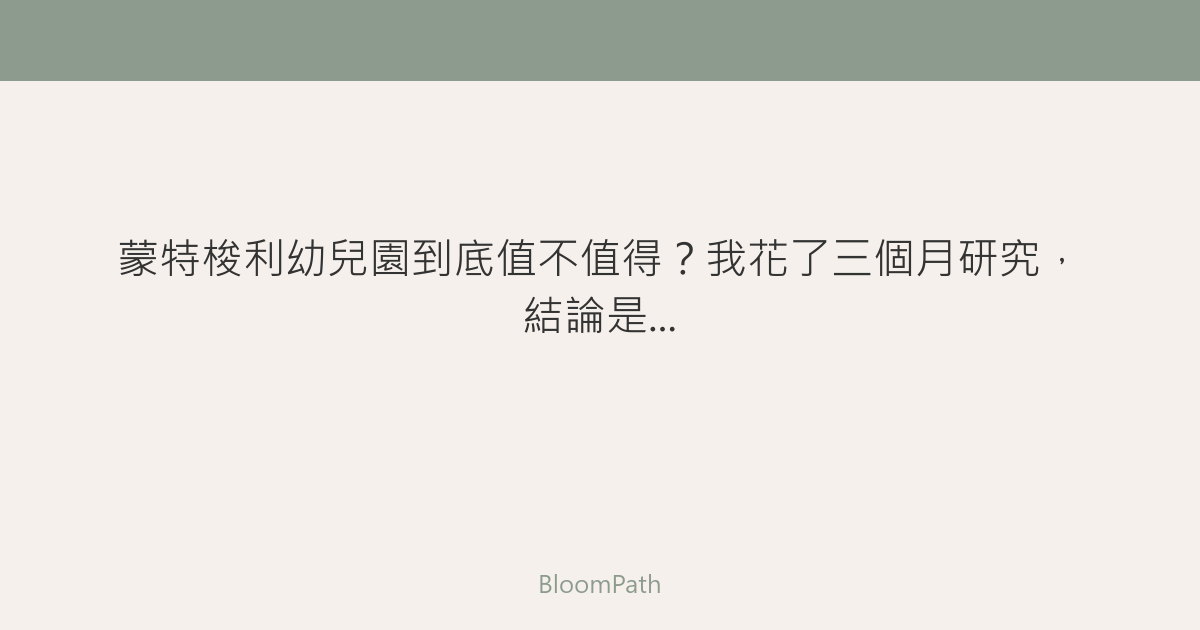
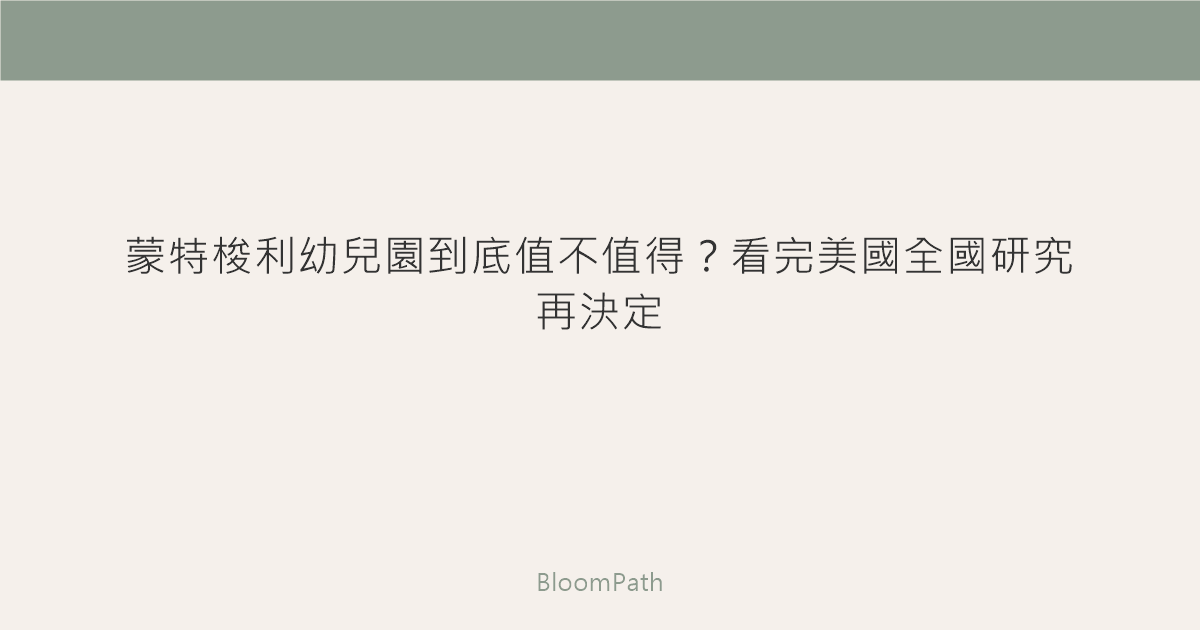
Drop the unverifiable "three months of research" claim from a title
The montessori-vs-traditional-preschool-zh title said the author spent
three months researching; the description called the PNAS trial the
world's largest. Retitle, correct the description, redraw the OG image
and rebuild the titles index.

Changed region(s): [[0.0925, 0.3619, 0.8942, 0.5429], [0.4317, 0.9048, 0.555, 0.9651]]

diff --git a/src/content/blog/montessori-vs-traditional-preschool-zh.md b/src/content/blog/montessori-vs-traditional-preschool-zh.md
@@ -1,6 +1,6 @@
 ---
-title: "蒙特梭利幼兒園到底值不值得？我花了三個月研究，結論是..."
-description: "2025 年全球最大規模蒙特梭利 RCT 研究揭密：近 600 個孩子的實驗數據，告訴台灣爸媽蒙特梭利幼兒園到底值不值得。"
+title: "蒙特梭利幼兒園到底值不值得？看完美國全國研究再決定"
+description: "2025 年美國首個全國性公立蒙特梭利幼兒園隨機對照研究：近 600 個孩子的實驗數據，告訴台灣爸媽蒙特梭利幼兒園到底值不值得。"
 pubDate: 2026-04-01
 updatedDate: 2026-03-31
 lang: zh-TW
